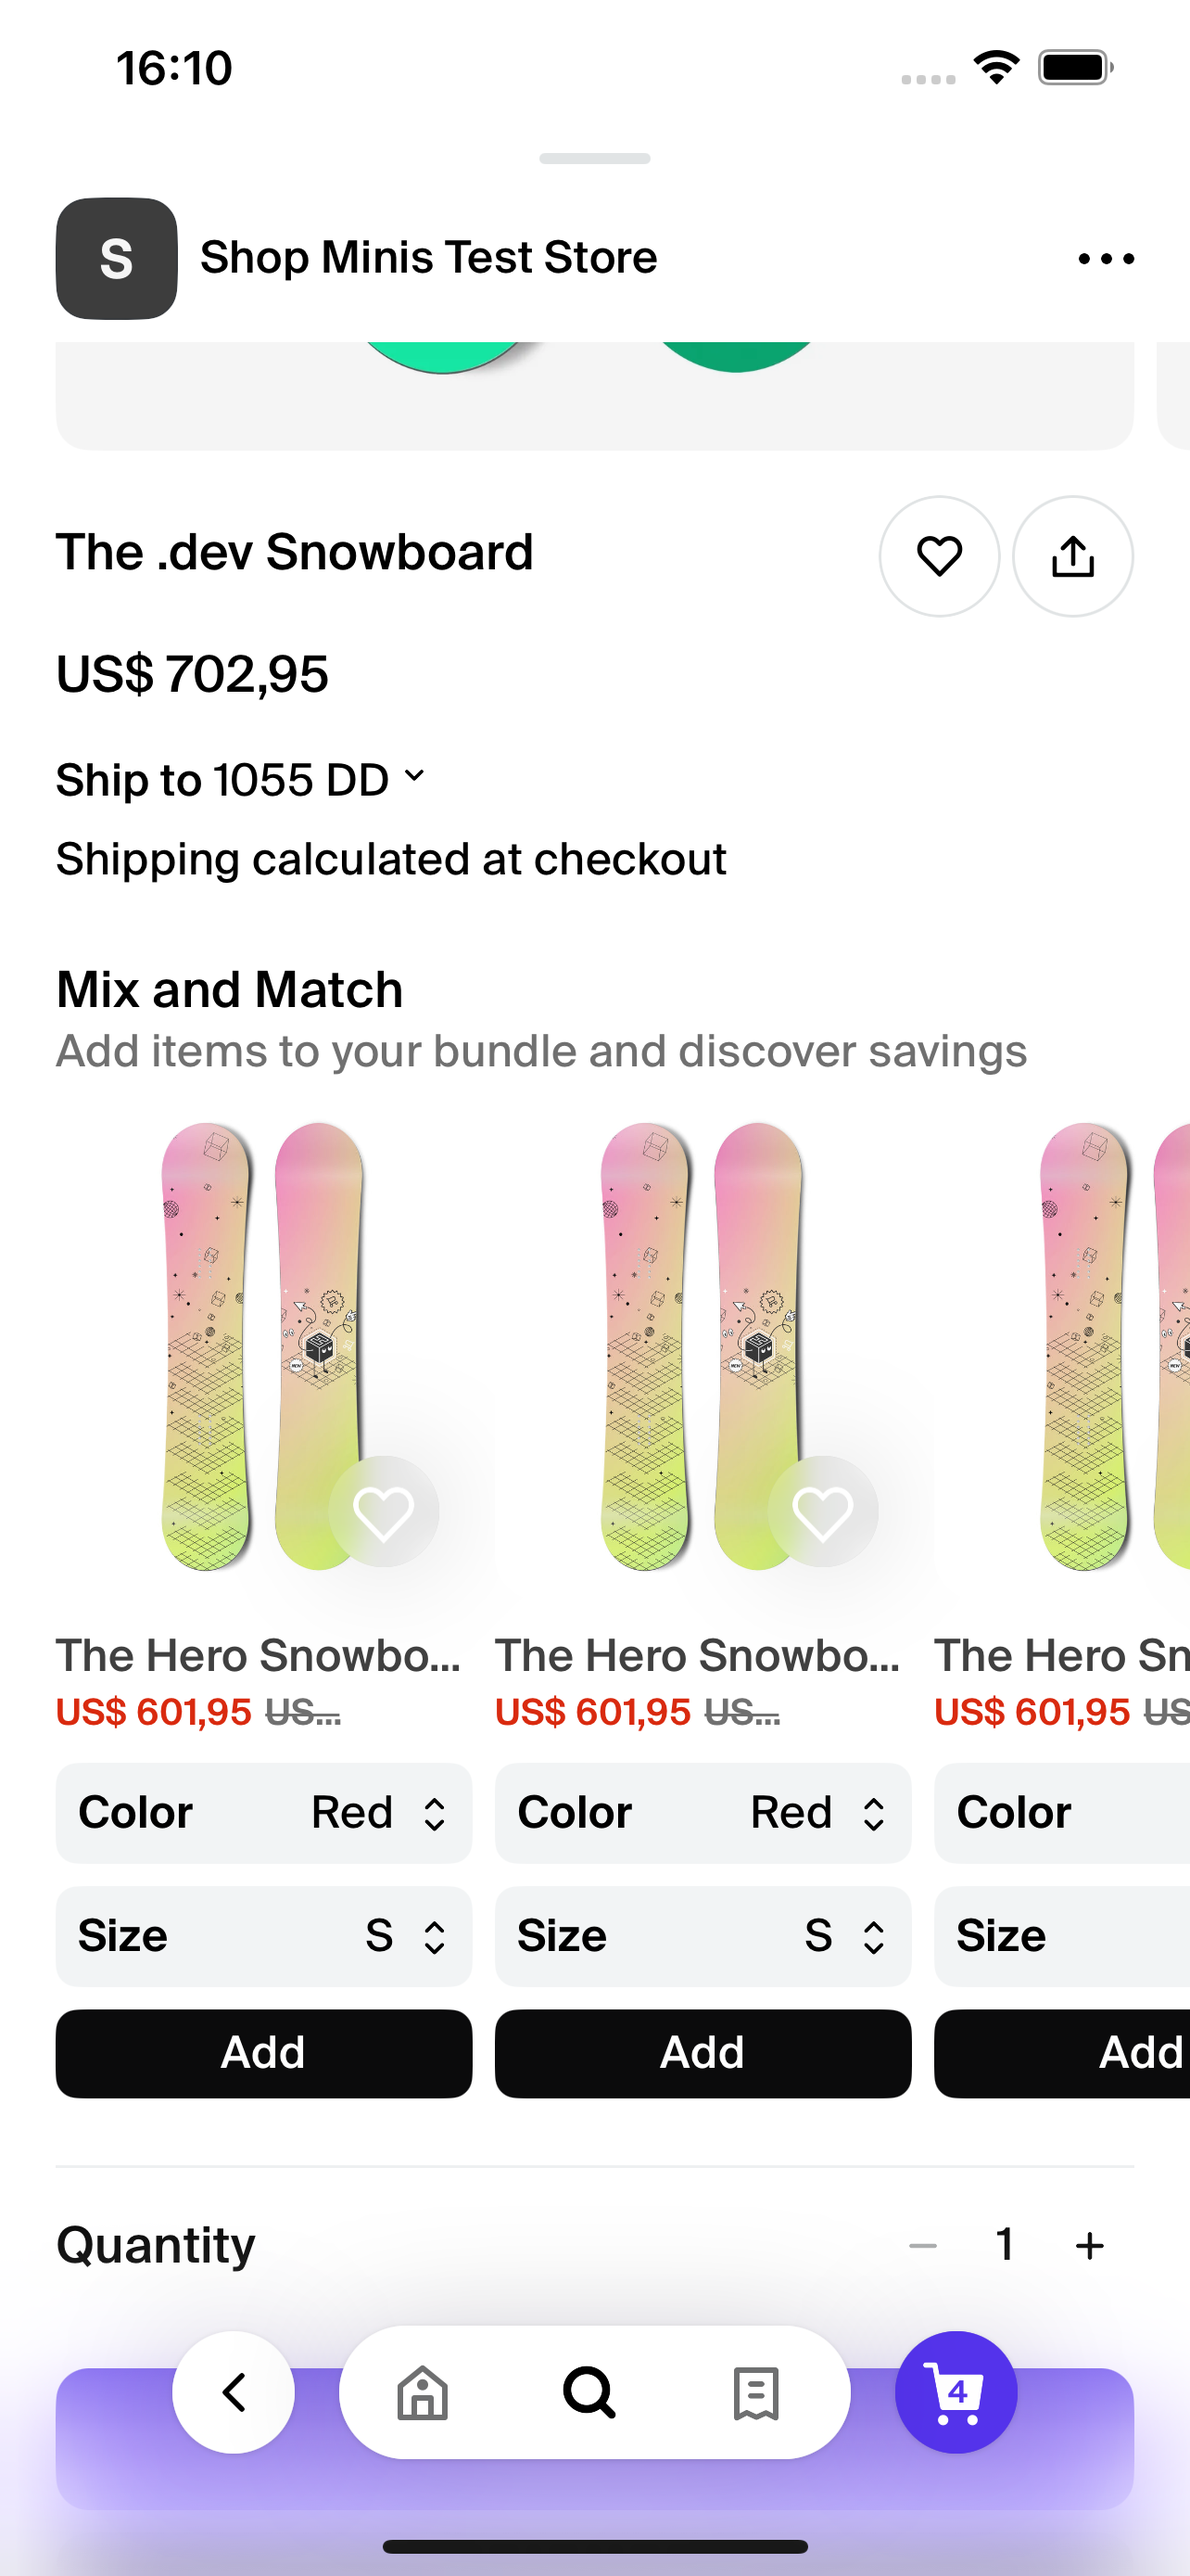
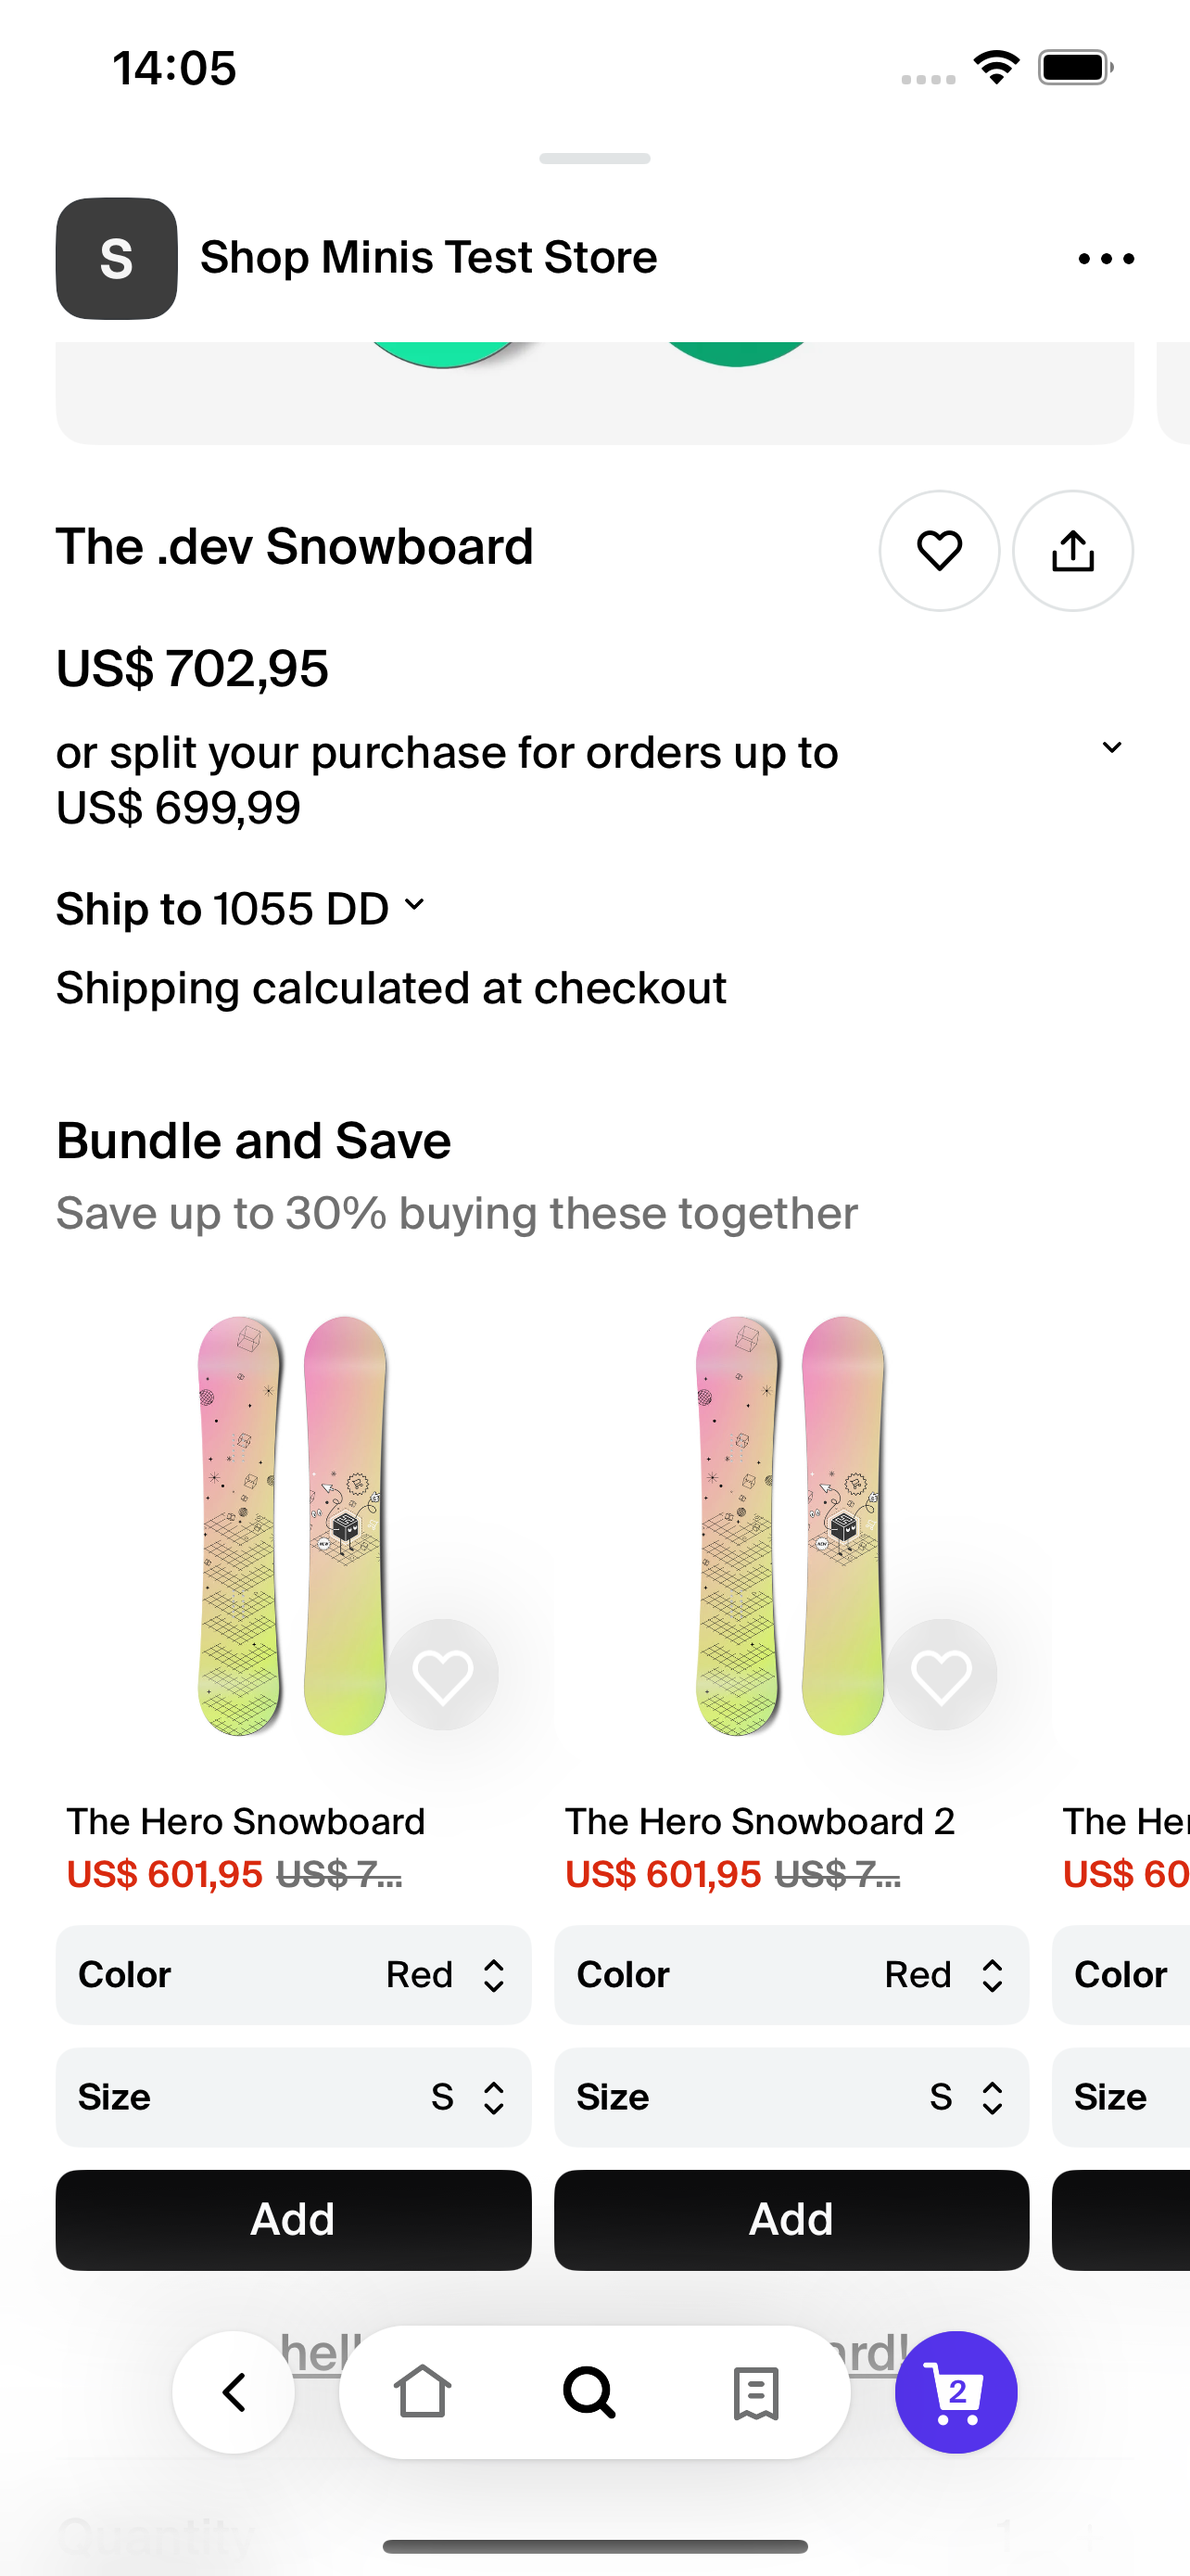
Update BundleProductCarousel spacing (#11)
* Update BundleProductCarousel spacing

* update SDK version 1.108

* update SDK and title spacing

* update bundleProductCarousel doc-screenshot

diff --git a/packages/shop-minis-ui-extensions/src/extensions/bundle-products-carousel/index.tsx b/packages/shop-minis-ui-extensions/src/extensions/bundle-products-carousel/index.tsx
@@ -38,7 +38,7 @@ export function BundleProductsCarousel({
 
   return (
     <ExtensionProviders>
-      <Box marginTop="xs">
+      <Box marginTop="s" gap="xxs">
         <Text variant="bodyTitleLarge">{title}</Text>
         {subtitle ? (
           <Text variant="bodySmall" color="foregrounds-subdued">
@@ -52,7 +52,7 @@ export function BundleProductsCarousel({
               gap="xs"
               marginLeft="gutter"
               marginRight={cardsShouldScroll ? 'none' : 'gutter'}
-              marginTop="xxs"
+              marginTop="xs-s"
             >
               {products.map((product, index) => (
                 <ProductsCarouselCard
@@ -62,7 +62,7 @@ export function BundleProductsCarousel({
                   onProductAddedToBundle={onProductAddedToBundle}
                   onProductRemovedFromBundle={onProductRemovedFromBundle}
                   shopId={shopId}
-                  fixedWidth={products.length !== 2} // when we have two products each card dynamically takes 50% width
+                  fixedWidth={products.length <= 2} // when we have two products or less each card dynamically takes 50% width
                 />
               ))}
             </Box>

diff --git a/packages/shop-minis-ui-extensions/src/extensions/bundle-products-carousel/components/ProductsCarouselCard.tsx b/packages/shop-minis-ui-extensions/src/extensions/bundle-products-carousel/components/ProductsCarouselCard.tsx
@@ -5,8 +5,12 @@ import {
   ProductOption,
   Variant,
   Button,
+  theme,
 } from '@shopify/shop-minis-platform-sdk'
 import {ComponentProps, useCallback, useState} from 'react'
+import {Dimensions} from 'react-native'
+
+const {width: SCREEN_WIDTH} = Dimensions.get('screen')
 
 type ProductCardProduct = ComponentProps<typeof ProductCard>['product']
 
@@ -19,7 +23,8 @@ export interface ProductsCarouselProduct extends ProductCardProduct {
   defaultVariant: ProductsCarouselProductVariant
 }
 
-const CAROUSEL_CARD_DEFAULT_WIDTH = 150
+const CAROUSEL_CARD_DEFAULT_WIDTH = SCREEN_WIDTH / 2.5
+const CAROUSEL_CARD_UNIT_WIDTH = SCREEN_WIDTH / 2 - theme.spacing.gutter
 
 export function ProductsCarouselCard({
   product,
@@ -61,7 +66,9 @@ export function ProductsCarouselCard({
     <Box
       key={product.id}
       flex={fixedWidth ? undefined : 1}
-      maxWidth={fixedWidth ? CAROUSEL_CARD_DEFAULT_WIDTH : undefined}
+      maxWidth={
+        fixedWidth ? CAROUSEL_CARD_UNIT_WIDTH : CAROUSEL_CARD_DEFAULT_WIDTH
+      }
     >
       <ProductCard
         product={product}
